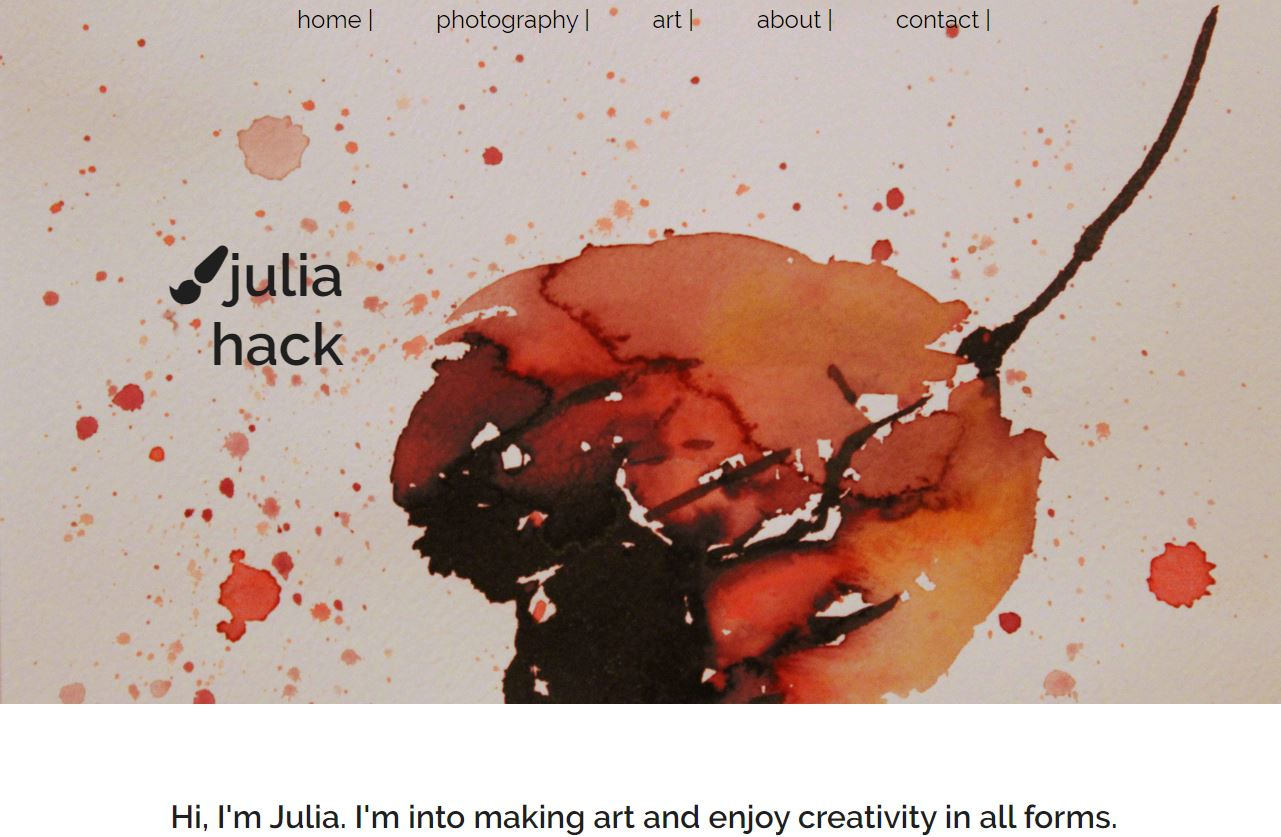
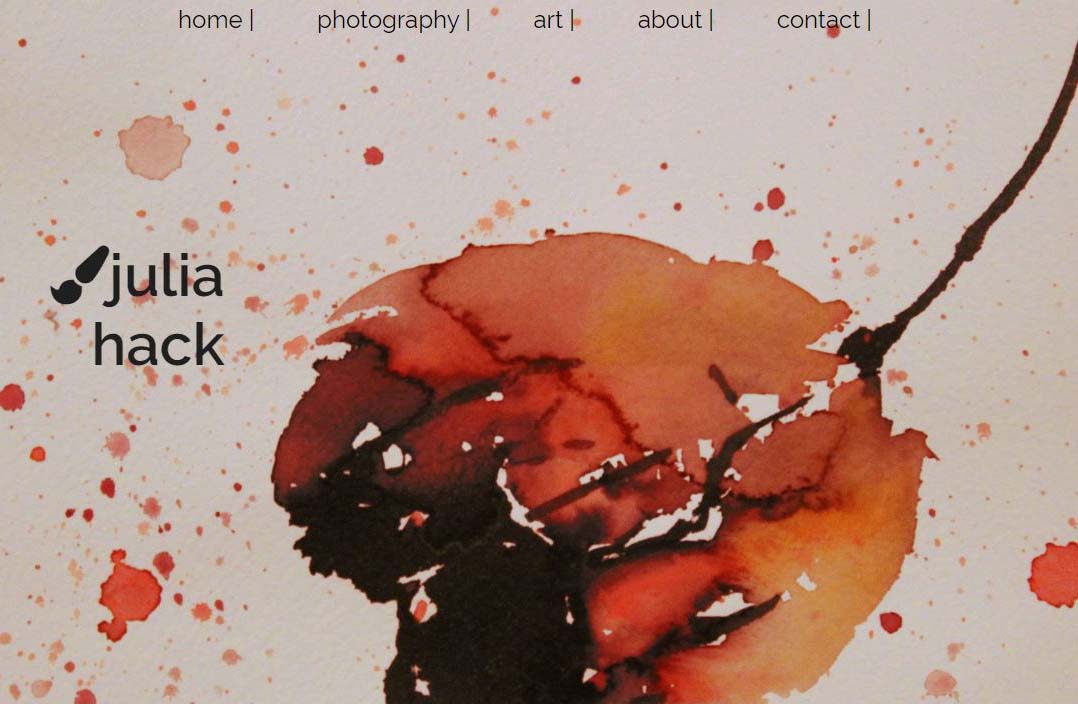
changed nav, added more cards to project page

diff --git a/projects.html b/projects.html
@@ -40,6 +40,26 @@
                     </section>
                 </a>
 
+                <a class="project-card-link" href="projects/roots.html">
+                    <section class="web-undivided-mind-section project-section-flex">
+                        <img src="assets/images/web-screenshots/roots-web.jpg" alt="screenshot of roots website mockup" class="project-img">
+                        <div class="card-text-container">
+                            <h1 class="project-card-title">Roots Luxury Interiors</h1>
+                            <p class="project-card-description-dev">Branding, Graphic, and Web Design</p>
+                        </div>
+                    </section>
+                </a>
+
+                <a class="project-card-link" href="projects/prime-video.html">
+                    <section class="web-undivided-mind-section project-section-flex">
+                        <img src="assets/images/web-screenshots/prime-desktop.png" alt="mockup of prime desktop view" class="project-img">
+                        <div class="card-text-container">
+                            <h1 class="project-card-title">Prime Video Resign</h1>
+                            <p class="project-card-description-dev">UX/UI Design</p>
+                        </div>
+                    </section>
+                </a>
+
                 <a class="project-card-link" href="projects/my-plants.html">
                     <section class="web-undivided-mind-section project-section-flex">
                         <img src="assets/images/web-screenshots/plant-site-screenshot.JPG" alt="screenshot of plant website" class="project-img">

diff --git a/assets/css/styles.css b/assets/css/styles.css
@@ -59,7 +59,7 @@ ul li{
     grid-column: 2/3;
     grid-row: 1/2;
     align-self: center;
-
+    margin-right: 5vmin;
 }
 
 .global-nav-ul{
@@ -170,18 +170,31 @@ ul li{
 /* pages header styles */
 
 .page-header{
-    background: black;
-    height: 120px;
+    /* background: black; */
+    height: 150px;
     display: grid;
     grid-template-columns: 15vw 3fr;
+
+    background-image: 
+        
+        radial-gradient(circle, rgba(0,0,0,0) 0%, rgba(0,0,0,0.43771011822697825) 18%, rgba(0,0,0,0.9923319669664741) 88%),
+        url(../images/page-header2.jpg);
+    background-size: cover;
+    background-repeat: no-repeat;
+    background-position: right;
+}
+
+header > a{
+    width: min-content;
+    height: min-content;
+    align-self: center;
+    justify-self: center;
 }
 
 .page-julia-logo{
-    height: 50px;
-    margin: 30px;
+    height: 60px;
 
     grid-column: 1/2;
-    align-self: center;
 }
 
 /* .page-title{
@@ -947,9 +960,9 @@ footer > p > a:hover{
         height: 90vh;
     }
 
-    .page-header{
+    /* .page-header{
         height: 50vh;
-    }
+    } */
 
     #home-intro{
         align-self: center;

diff --git a/projects/prime-video.html b/projects/prime-video.html
@@ -1,0 +1,1 @@
+prime

diff --git a/projects/roots.html b/projects/roots.html
@@ -1,0 +1,1 @@
+roots
